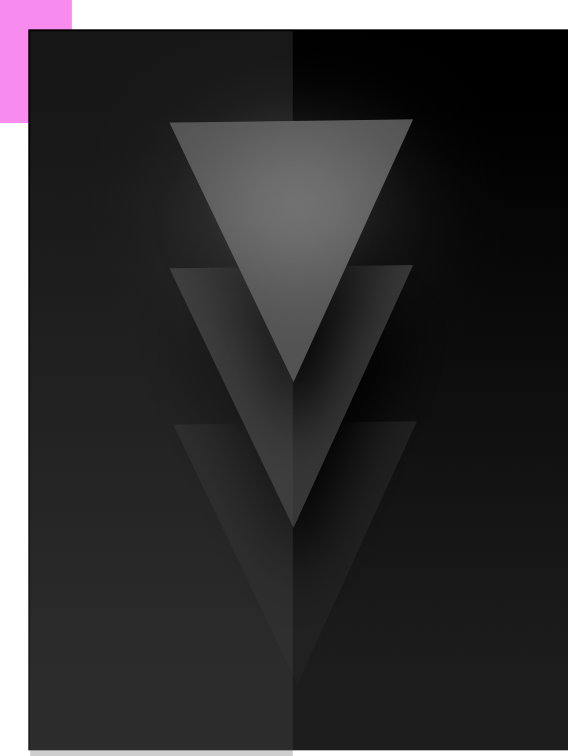
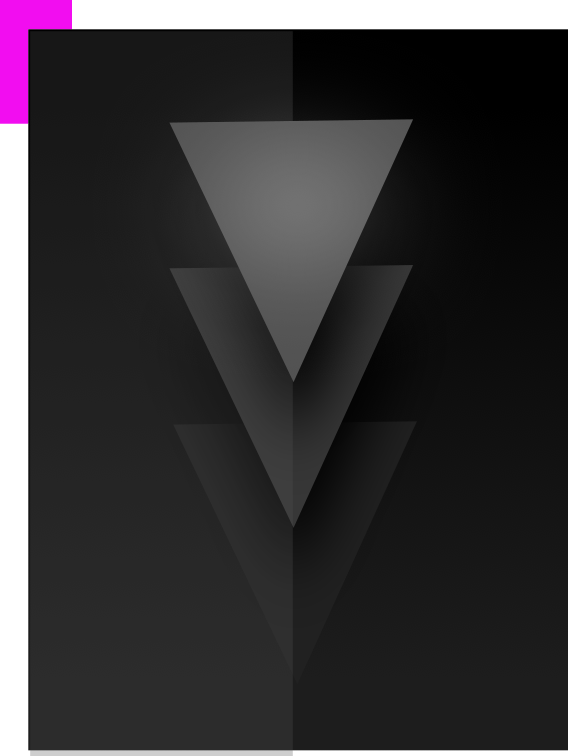
updte

Changed region(s): [[0.0, 0.0, 0.1496, 0.1825]]

diff --git a/src/components/About.css b/src/components/About.css
@@ -14,7 +14,7 @@
 }
 
 .pinksq1{
-    background-color: pink;
+    background-color: #F20DF0;
     border-top-left-radius: 50px;
     max-width: 600px;
     height: 300px;
@@ -50,9 +50,9 @@
     font-weight: bolder;
     font-size: x-large;
     
-    -webkit-box-shadow: 32px 32px 0px -15px pink;
-    -moz-box-shadow: 32px 32px 0px -15px pink;
-    box-shadow: 32px 32px 0px -15px pink;
+    -webkit-box-shadow: 32px 32px 0px -15px #F20DF0;
+    -moz-box-shadow: 32px 32px 0px -15px #F20DF0;
+    box-shadow: 32px 32px 0px -15px #F20DF0;
 }
 
 .violsq1 > p{
